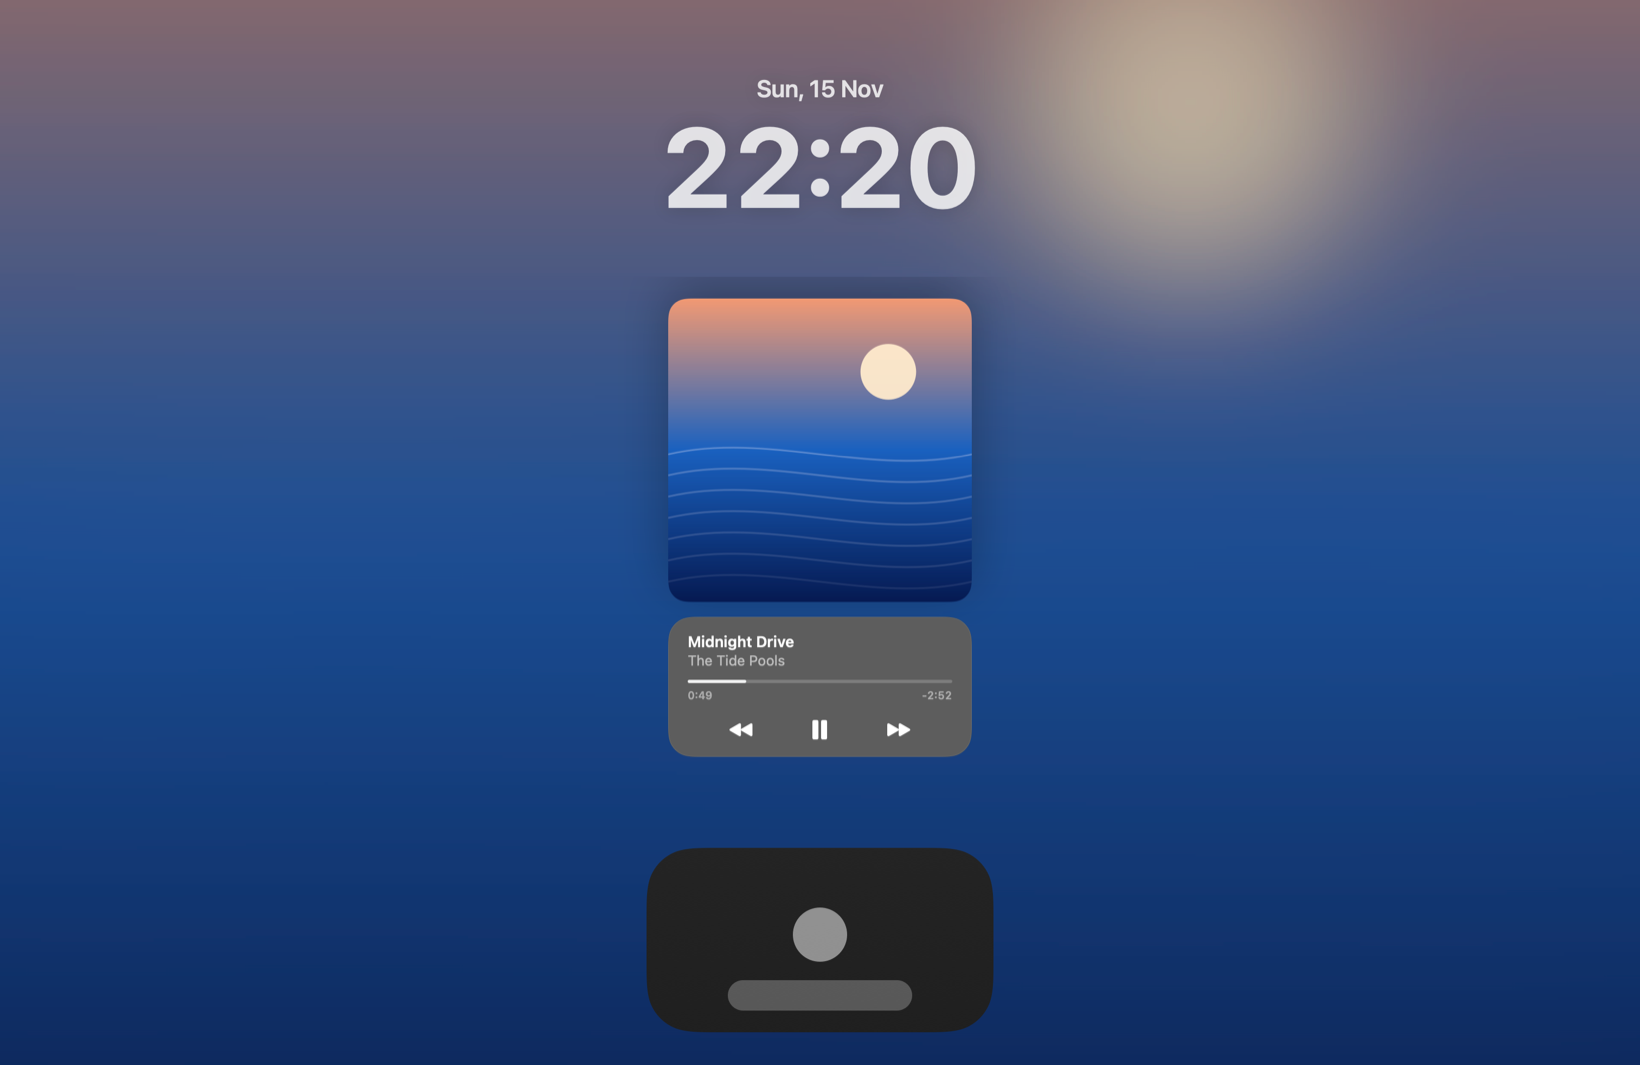
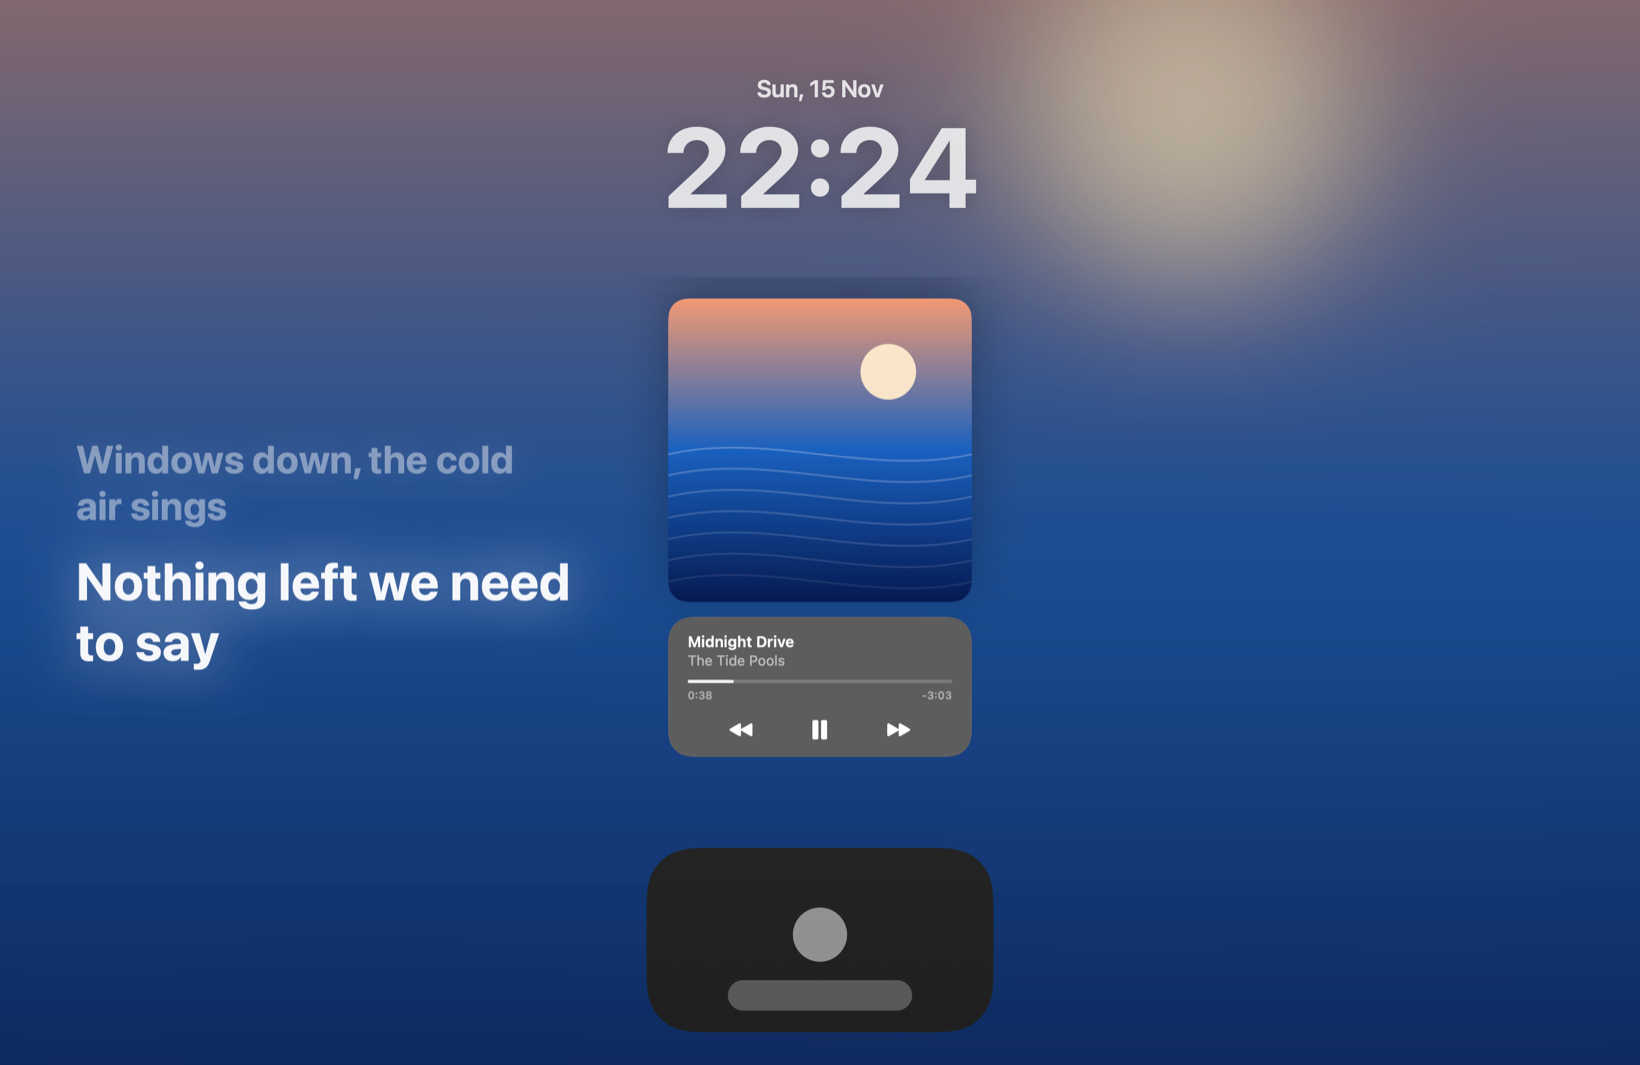
Lock screen: large hazy synced lyrics beside the player

Changed region(s): [[0.0311, 0.5268, 0.3732, 0.6507], [0.0311, 0.4028, 0.311, 0.4958], [0.5598, 0.1239, 0.5909, 0.2169]]

diff --git a/Sources/Droplet/LockScreen.swift b/Sources/Droplet/LockScreen.swift
@@ -50,6 +50,7 @@ enum SkyLight {
 
 final class LockScreenPlayer {
     private let music: MusicService
+    private let lyrics: LyricsService
     private var window: NSPanel?
     private var backdrop: NSPanel?
     private var locked = false
@@ -67,12 +68,14 @@ final class LockScreenPlayer {
         set { UserDefaults.standard.set(newValue, forKey: "lockBackdrop"); state.backdrop = newValue }
     }
 
-    init(music: MusicService) {
+    init(music: MusicService, lyrics: LyricsService) {
         self.music = music
+        self.lyrics = lyrics
         let dnc = DistributedNotificationCenter.default()
         dnc.addObserver(forName: .init("com.apple.screenIsLocked"), object: nil, queue: .main) { [weak self] _ in
             self?.locked = true
             self?.music.refreshPosition()
+            self?.loadLyrics()
             self?.refresh()
         }
         dnc.addObserver(forName: .init("com.apple.screenIsUnlocked"), object: nil, queue: .main) { [weak self] _ in
@@ -80,6 +83,12 @@ final class LockScreenPlayer {
             self?.refresh()
         }
         music.$isPlaying.receive(on: DispatchQueue.main).sink { [weak self] _ in self?.refresh() }.store(in: &bag)
+        // Keep lyrics in step with the song while locked.
+        music.$title.receive(on: DispatchQueue.main).sink { [weak self] _ in
+            guard let self, self.locked else { return }
+            self.loadLyrics()
+            self.music.refreshPosition()
+        }.store(in: &bag)
         // Build both windows up front so nothing is created at the moment of locking.
         DispatchQueue.main.asyncAfter(deadline: .now() + 2) { [weak self] in
             _ = self?.makeBackdrop()
@@ -92,6 +101,10 @@ final class LockScreenPlayer {
         // unlock so a paused track can be resumed from the lock screen.
         let wanted = enabled && locked && !music.title.isEmpty && (music.isPlaying || state.visible)
         if wanted { show() } else { hide() }
+    }
+
+    private func loadLyrics() {
+        lyrics.load(title: music.title, artist: music.artist, duration: music.duration)
     }
 
     func makeWindow() -> NSPanel {
@@ -124,7 +137,7 @@ final class LockScreenPlayer {
         p.ignoresMouseEvents = true   // never block the password field or Touch ID prompt
         p.level = NSWindow.Level(rawValue: Int(CGShieldingWindowLevel()) + 1)
         p.collectionBehavior = [.canJoinAllSpaces, .stationary, .fullScreenAuxiliary, .ignoresCycle]
-        let host = NSHostingView(rootView: LockBackdropView(music: music, state: state))
+        let host = NSHostingView(rootView: LockBackdropView(music: music, lyrics: lyrics, state: state))
         host.safeAreaRegions = []
         p.contentView = host
         backdrop = p
@@ -229,6 +242,7 @@ struct GlassBackground: NSViewRepresentable {
 /// the system one.
 struct LockBackdropView: View {
     @ObservedObject var music: MusicService
+    @ObservedObject var lyrics: LyricsService
     @ObservedObject var state: LockState
 
     var body: some View {
@@ -257,6 +271,12 @@ struct LockBackdropView: View {
                         .id(music.title + music.artist)
                         .transition(.opacity)
 
+                    // Big, soft lyrics drifting beside the player.
+                    let side = (geo.size.width - 300) / 2
+                    LockLyricsView(music: music, lyrics: lyrics)
+                        .frame(width: side - 110, height: geo.size.height * 0.56, alignment: .leading)
+                        .position(x: 70 + (side - 110) / 2, y: geo.size.height * 0.52)
+
                     TimelineView(.periodic(from: .now, by: 5)) { c in
                         VStack(spacing: -4) {
                             Text(c.date, format: .dateTime.weekday(.abbreviated).day().month(.abbreviated))
@@ -280,6 +300,37 @@ struct LockBackdropView: View {
         .animation(.easeInOut(duration: 0.7), value: music.title)
         .animation(.easeInOut(duration: 0.5), value: music.backdrop == nil)
         .ignoresSafeArea()
+    }
+}
+
+/// The current lyric line, large, with its neighbours fading into a haze.
+/// Only shown when the lyrics carry timings.
+struct LockLyricsView: View {
+    @ObservedObject var music: MusicService
+    @ObservedObject var lyrics: LyricsService
+
+    var body: some View {
+        if lyrics.status == .ready, lyrics.synced, !lyrics.lines.isEmpty {
+            TimelineView(.periodic(from: .now, by: 0.25)) { _ in
+                let cur = lyrics.index(at: music.position) ?? -1
+                let lo = max(0, cur - 1), hi = min(lyrics.lines.count - 1, cur + 2)
+                VStack(alignment: .leading, spacing: 20) {
+                    ForEach(Array(lo...max(lo, hi)), id: \.self) { i in
+                        let d = i - cur
+                        Text(lyrics.lines[i].text.isEmpty ? "···" : lyrics.lines[i].text)
+                            .font(.system(size: d == 0 ? 48 : 36, weight: .bold))
+                            .foregroundStyle(.white.opacity(d == 0 ? 0.95 : abs(d) == 1 ? 0.42 : 0.22))
+                            .shadow(color: .white.opacity(d == 0 ? 0.6 : 0.25), radius: d == 0 ? 26 : 14)
+                            .blur(radius: d == 0 ? 0.6 : abs(d) == 1 ? 3 : 6)
+                            .multilineTextAlignment(.leading)
+                            .fixedSize(horizontal: false, vertical: true)
+                            .frame(maxWidth: .infinity, alignment: .leading)
+                            .transition(.opacity)
+                    }
+                }
+                .animation(.easeInOut(duration: 0.55), value: cur)
+            }
+        }
     }
 }
 

diff --git a/Sources/Droplet/main.swift b/Sources/Droplet/main.swift
@@ -20,7 +20,7 @@ final class AppDelegate: NSObject, NSApplicationDelegate, NSWindowDelegate {
     var statusItem: NSStatusItem!
     let audio = AudioService()
     let brightness = BrightnessService()
-    lazy var lockPlayer = LockScreenPlayer(music: model.music)
+    lazy var lockPlayer = LockScreenPlayer(music: model.music, lyrics: model.lyrics)
     var lastPower = Power.read()
     var dragChange = NSPasteboard(name: .drag).changeCount
     var monitors: [Any] = []

diff --git a/README.md b/README.md
@@ -27,7 +27,7 @@ A minimal Dynamic Island for the MacBook notch. Droplet sits exactly over the no
 
 ### Lock-screen player
 
-When music is playing and you lock the Mac, a clean artwork card and a small glass player with previous, play/pause and next appear under the lock-screen clock, like on iPhone. The song's cover, blurred, fills the lock screen behind it, leaving a small soft opening at the bottom centre so the account picture and password field stay visible. Because the cover hides the system clock, Droplet draws its own. Everything stays until you unlock, so you can resume a paused track. Turn the player off with **Lock Screen Player**, or just the cover with **Lock Screen Cover Backdrop**, in the menu.
+When music is playing and you lock the Mac, a clean artwork card and a small glass player with previous, play/pause and next appear under the lock-screen clock, like on iPhone. The song's cover, blurred, fills the lock screen behind it, leaving a small soft opening at the bottom centre so the account picture and password field stay visible. Because the cover hides the system clock, Droplet draws its own. When timed lyrics are available, the current line appears large beside the player with its neighbours fading into a soft haze. Everything stays until you unlock, so you can resume a paused track. Turn the player off with **Lock Screen Player**, or just the cover with **Lock Screen Cover Backdrop**, in the menu.
 
 ![Lock-screen player](docs/lock-screen.png)
 
